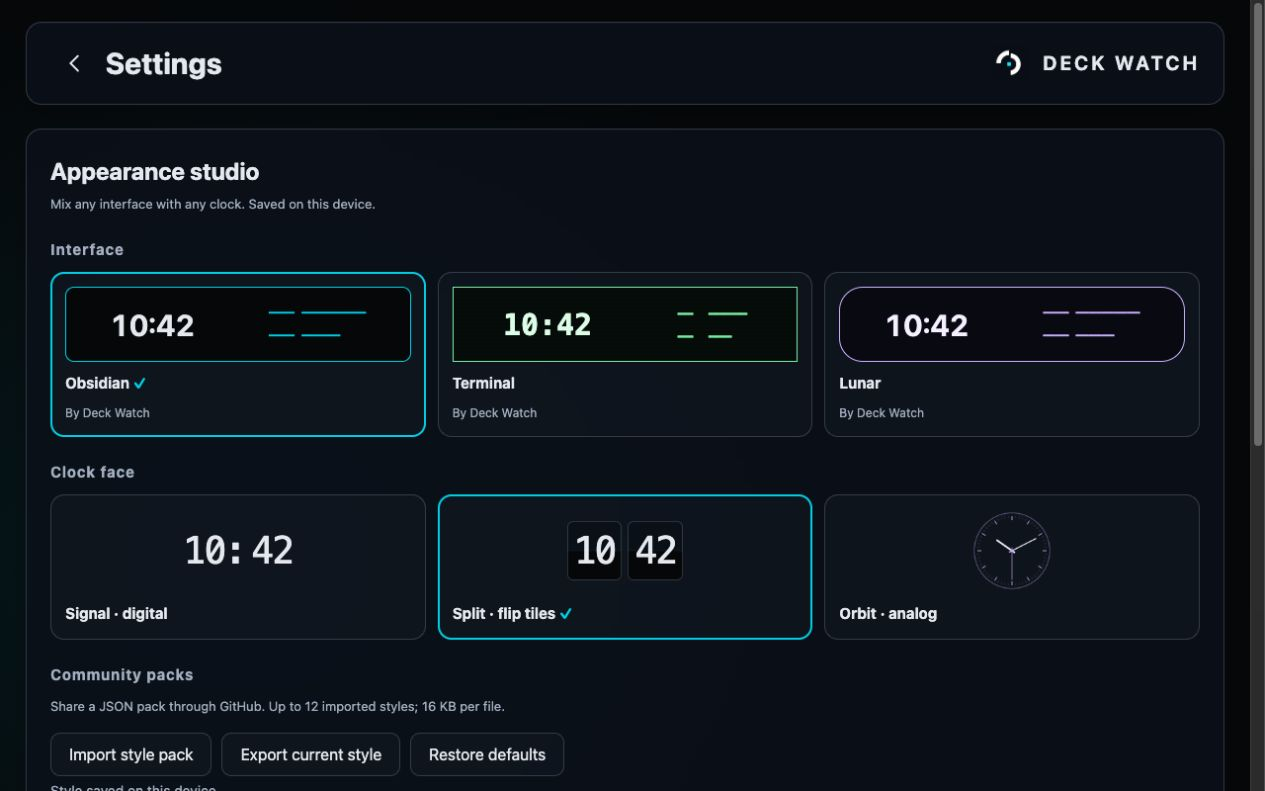
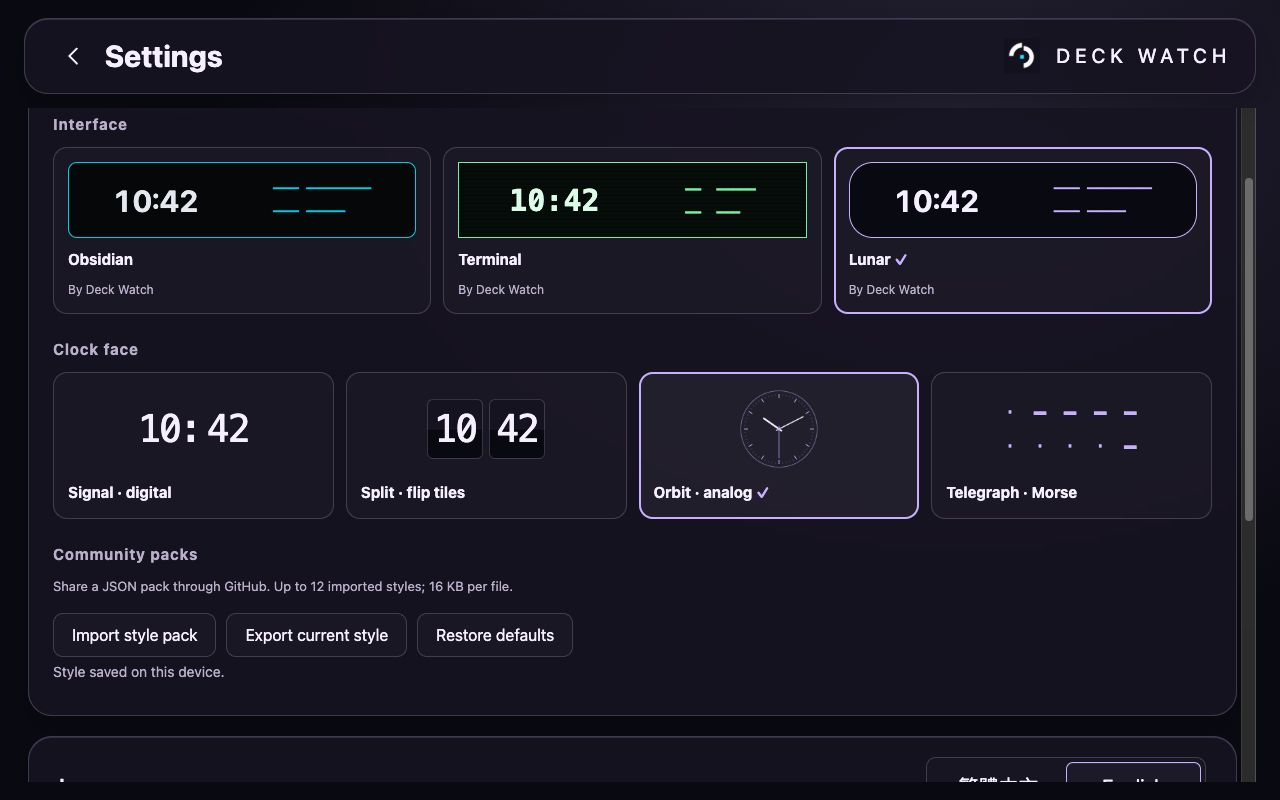
docs: refresh walkthrough with four clocks and three themes

diff --git a/docs/style-packs.md b/docs/style-packs.md
@@ -1,6 +1,6 @@
 # Community style packs
 
-![Appearance studio with three interfaces and three clock faces](appearance-studio.jpg)
+![Appearance studio with three interfaces and four clock faces](appearance-studio.jpg)
 
 Open Settings → Appearance studio. Choose an interface and a clock independently:
 
